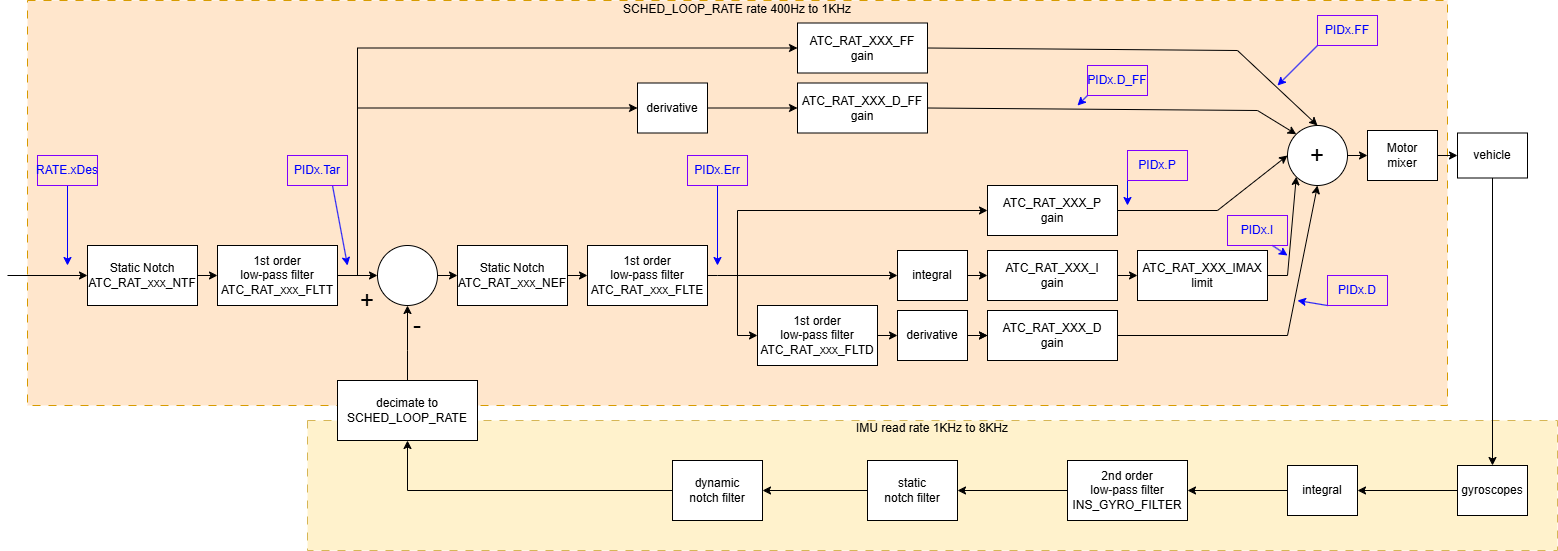
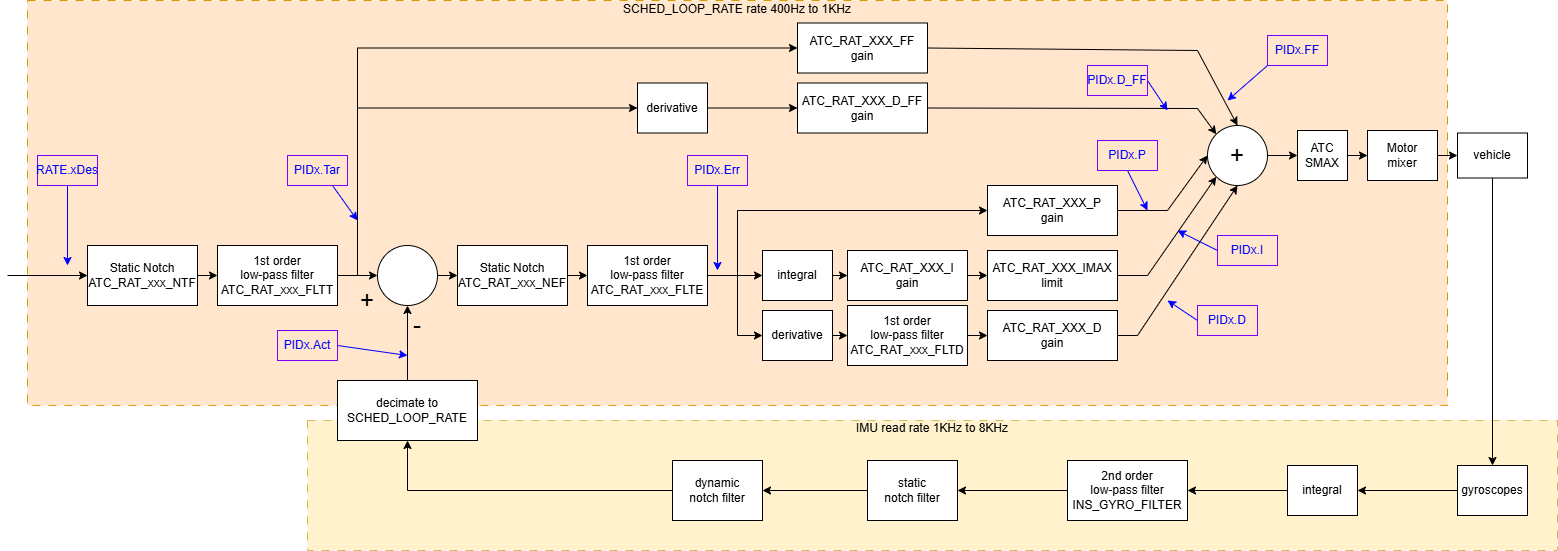
PIDReview: Address review from Peter Hall

diff --git a/PIDReview/index.html b/PIDReview/index.html
@@ -32,15 +32,10 @@
 
 <body>
 
-<table><tr><td style="width:1200px">
-<p style="text-align:center; background-color:#fff3cd; border:1px solid #ffc107; padding:10px; border-radius:4px;">
-    <b>Note:</b> To log PID data, the <b>PID</b> bit of the <code>LOG_BITMASK</code> parameter must be set.
-    In <i>Mission Planner</i> this is found under <i>CONFIG &gt; Full Parameter List</i>.
-    In <i>ArduPilot methodic configurator</i> this is done automatically when <a href="https://ardupilot.github.io/MethodicConfigurator/TUNING_GUIDE_ArduCopter#842-pid-notch-tuning">tuning the PID notch filters</a>.
-    Without this bit set, no PID log messages will be present in the log and this tool will show no data.
-    Here are <a href="https://github.com/ArduPilot/WebTools/blob/main/PIDReview/Readme.md">more details about this tool and how to use it</a>.
+<p style="width:1150px; text-align:justify; padding-left:30px; margin-block-start: 0; margin-block-end: 0.5em;">
+This tool takes a .bin log with RATE or PID messages and shows the time and frequency content of the rate controller target, response and output. To record the full set of PID components the <b>PID</b> bit of the <code>LOG_BITMASK</code> parameter must be set before flying. The <code>RATE</code> log message is enabled by default and can also be used by this tool. Here are <a href="https://github.com/ArduPilot/WebTools/blob/main/PIDReview/Readme.md">more details about this tool and how to use it</a>.
 </p>
-</td></tr></table>
+
 
 <style>
     div.plotly-notifier {
@@ -288,7 +283,7 @@
 <table>
     <td style="width: 375px;"></td>
     <td>
-        <fieldset style="width:450px;height:40px">
+        <fieldset style="width:500px;height:40px">
             <legend>PID component</legend>
             <input type="radio" id="Spec_Tar" name="Spec" onchange="redraw_Spectrogram()">
             <label for="Spec_Tar">Target</label>

diff --git a/Readme.md b/Readme.md
@@ -1,6 +1,8 @@
 ## ArduPilot Web Tools
 
-This repository contains a number of web based tools for targeted ArduPilot log review and insight. These tools are live on [ardupilot.org](https://firmware.ardupilot.org/Tools/WebTools). For general review see [UAVLogViewer](https://github.com/ArduPilot/UAVLogViewer).
+This repository contains a number of web based tools for targeted ArduPilot log review and insight.
+These tools are live on [ardupilot.org](https://firmware.ardupilot.org/Tools/WebTools).
+For general review see [UAVLogViewer](https://github.com/ArduPilot/UAVLogViewer).
 
 ## Development setup
 
@@ -14,20 +16,24 @@ git clone --recurse-submodules https://github.com/ArduPilot/WebTools.git
 
 Host locally using python by running the following command in the root of the repo:
 
-```
+```console
 python3 -m http.server --bind 127.0.0.1
 ```
 
-The landing page can then be found at http://127.0.0.1:8000/
+The landing page can then be found at `http://127.0.0.1:8000/`
 
-You need to keep your submodules update. When you rebase, or switch branches, update them like so:
+You need to keep your submodules update.
+When you rebase, or switch branches, update them like so:
+
 ```console
 git submodule update --init --recursive
 ```
 
 ## VSCode
 
-This repository contains VSCode launch configurations for debugging with Chrome and Edge. WebTools are either hosted with python as above or using the [LiveServer extension](https://marketplace.visualstudio.com/items?itemName=ritwickdey.LiveServer) which enables auto-reload. More information on debugging with VSCode [here](https://code.visualstudio.com/docs/editor/debugging).
+This repository contains VSCode launch configurations for debugging with Chrome and Edge.
+WebTools are either hosted with python as above or using the [LiveServer extension](https://marketplace.visualstudio.com/items?itemName=ritwickdey.LiveServer) which enables auto-reload.
+Here is [more information on debugging with VSCode](https://code.visualstudio.com/docs/editor/debugging).
 
 <p align="center">
 <img src="images/VSCode%20debug.png" width="80%">

diff --git a/PIDReview/Readme.md b/PIDReview/Readme.md
@@ -4,9 +4,8 @@ A browser-based tool for analysing ArduPilot flight logs and evaluating PID tuni
 
 ## Requirements
 
-The **PID** bit of the `LOG_BITMASK` parameter must be set before flying so that PID log messages (`PIDR`, `PIDP`, `PIDY`, `PIQR`, `PIQP`, `PIQY`, `PIDS`, `PIDA`) are recorded.
-Without this the tool will find no data.
-The `RATE` log message is also used when available and is enabled by default.
+The **PID** bit of the `LOG_BITMASK` parameter should be set before flying so that `PIDx` log messages (`PIDR`, `PIDP`, `PIDY`, `PIQR`, `PIQP`, `PIQY`, `PIDS`, `PIDA`) are recorded.
+Without this the tool will fallback to using the less detailed `RATE` messages and will disable some features.
 
 ## Supported vehicles
 
@@ -24,7 +23,7 @@ For this vehicle type, here is the annotated signal diagram:
 
 ## How to use
 
-1. Open the tool in a browser and load a `.bin` log file using the file picker or the **Open In** button (when launched from a GCS).
+1. Open the tool in a browser and load a `.bin` log file using the file picker.
 2. Select the axis / controller to analyse using the radio buttons in the **Axis** panel.
 3. Optionally narrow the analysis window using the **Start / End** time inputs or by zooming into the **Flight Data** plot and dragging the range slider.
 4. Click **Calculate** to run the FFT. The button is re-enabled automatically whenever the time range or window size is changed.
@@ -46,7 +45,7 @@ Multiple test sections (caused by in-flight parameter changes) are shown with co
 ### Frequency Domain (FFT)
 
 Averaged windowed FFT of the selected PID signals over the chosen time range.
-Each signal (Target, Actual, Error, P, I, D, FF, Output) can be shown or hidden independently.
+Each signal (Target, Actual, Error, P, I, D, FF, DFF, Output) can be shown or hidden independently.
 
 - **Amplitude scale** – Linear, dB, or Power Spectral Density (PSD).
 - **Frequency scale** – Linear or logarithmic, in Hz or RPM.